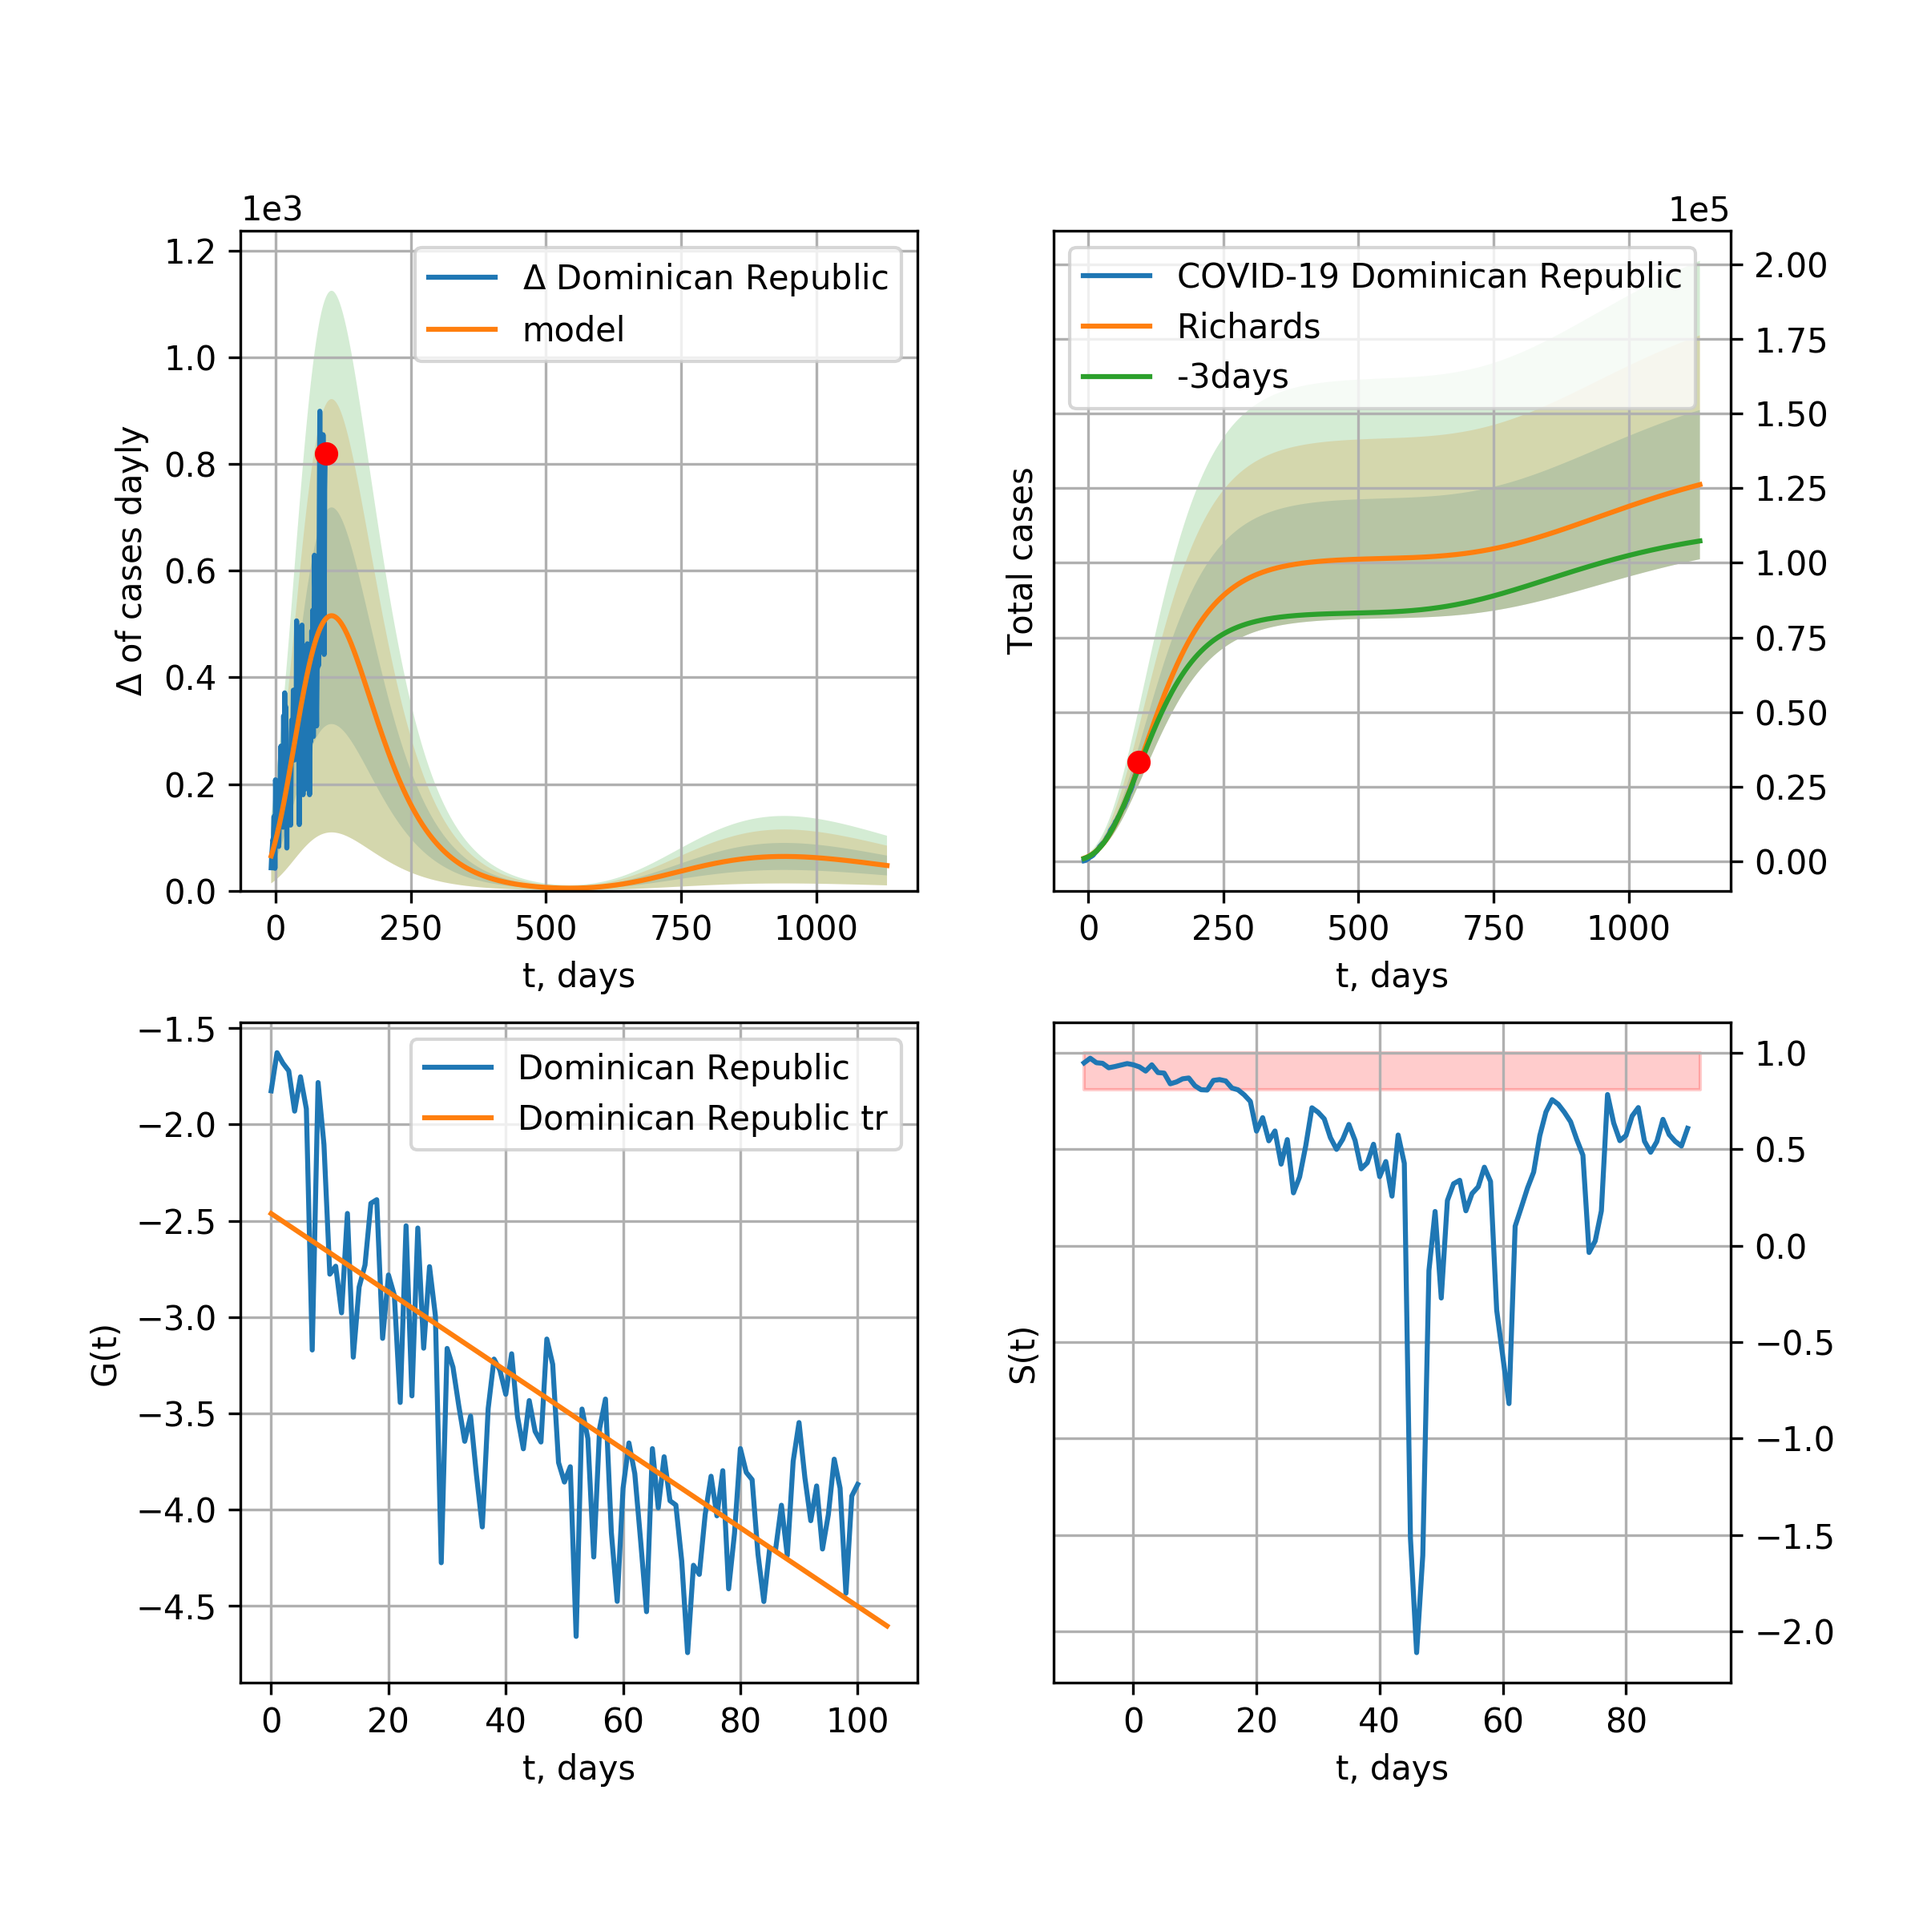
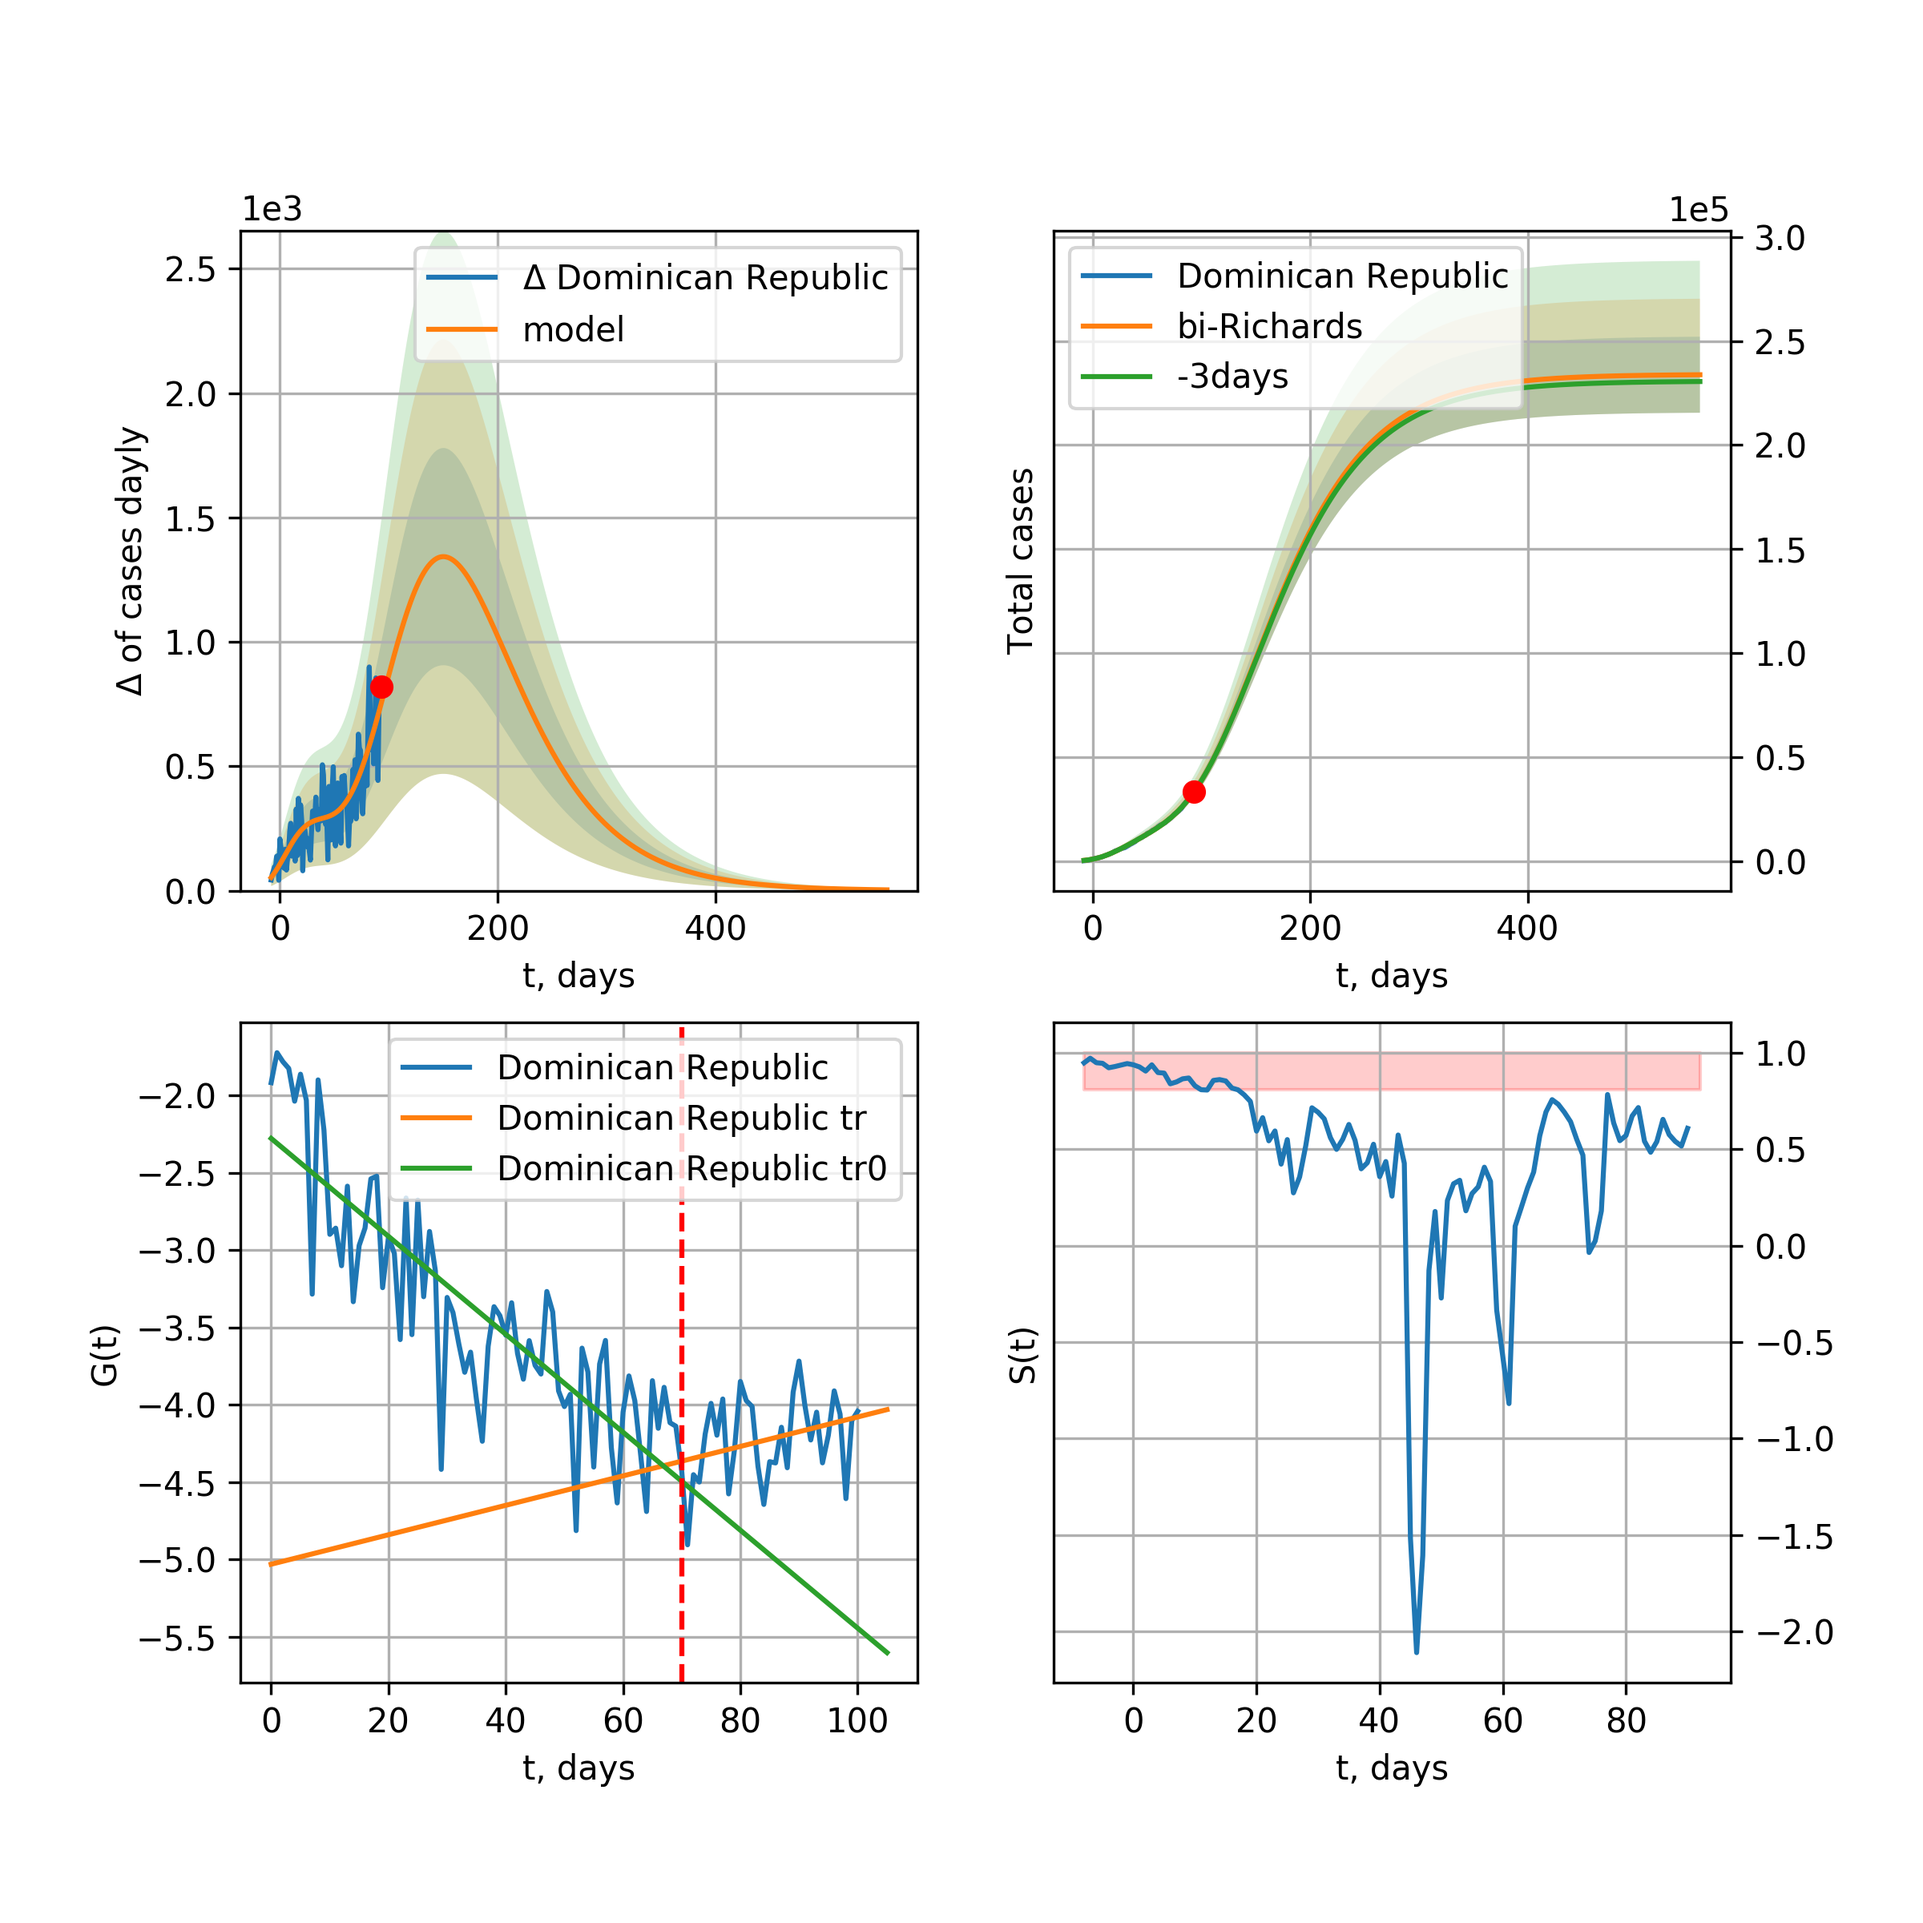
DM renew 2020-06-30

diff --git a/_site/index.html b/_site/index.html
@@ -1175,18 +1175,20 @@ trend coefficient of determination: 0.811568 <br />
     <img src="pictures/covidcasesDominican_Republic36_R.png" alt="hi" class="inline"/><br /> 
 
       Dominican Republic data at: 2020-07-01<br />
-+3 day model MAPE: 0.023234<br />
-model: Richards<br />
-coeffs: [ 1.01631055e+05  8.98085588e-01 -1.95789356e+02  1.54736715e-02]<br />
-S.Korea scenario coeffs: [0.36242246, 2.56241634, 1.84890887, 0.13324732]<br />
-rational stdev: 0.198103<br />
-forecast at the end of period: +1039 days<br />
-	 deltaDaycases: 47<br />
-	 total cases: 126209 ± 25002<br />
-	 total death: 2850 ± 1693<br />
-trend coefficient of determination: 0.647011 <br />
- intercept: -2.462585 <br />
- slope: -0.020397<br />
++3 day model MAPE: 0.000953<br />
+model: bi-Richards<br />
+coeffs: [ 2.14486497e+05  5.35903883e-01 -4.90439639e+01  3.20410163e-02]<br />
+rational stdev: 0.078109<br />
+forecast at the end of period: +465 days<br />
+	 deltaDaycases: 3<br />
+	 total cases: 233776 ± 18260<br />
+	 total death: 5279 ± 1237<br />
+bi-Richards approximation splitting point: 70<br />
+trend coefficient of determination: 0.716170 <br />
+ intercept: -2.276658 <br />
+ slope: -0.031672<br />trend coefficient of determination: 0.102241 <br />
+ intercept: -5.030424 <br />
+ slope: 0.009523<br />
           <br />  
    
     Egypt
